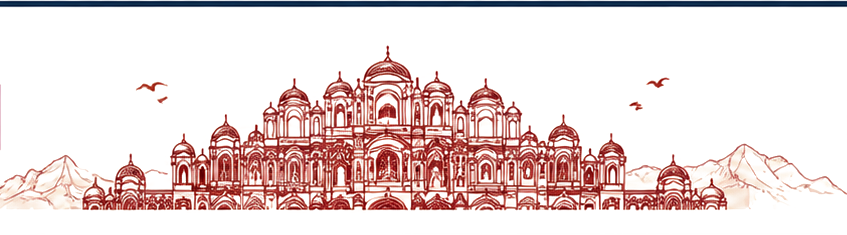
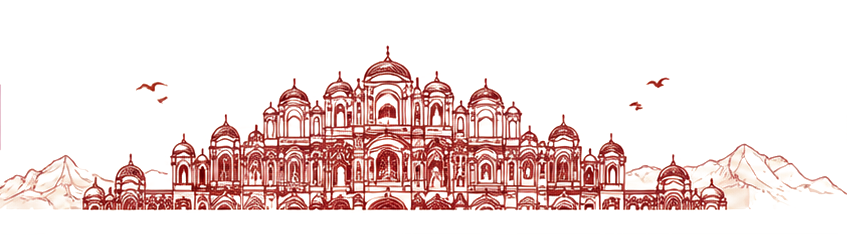
Remove top blue line from palace artwork and underline from ISMS header

Changed region(s): [[0.0, 0.0, 1.0, 0.0298]]

diff --git a/src/app/core/layout/header/header.component.ts b/src/app/core/layout/header/header.component.ts
@@ -110,8 +110,6 @@ import { IconComponent } from '../../../shared/components/icon/icon.component';
                 Integrated Scheme Management System
               </div>
 
-              <!-- Blue Underline Accent Bar -->
-              <div class="w-full h-[1.5px] sm:h-[2px] lg:h-[2.5px] bg-[#276CA1] mt-0.5 sm:mt-1 lg:mt-1.5 rounded-full" aria-hidden="true"></div>
             </div>
 
           </div>
